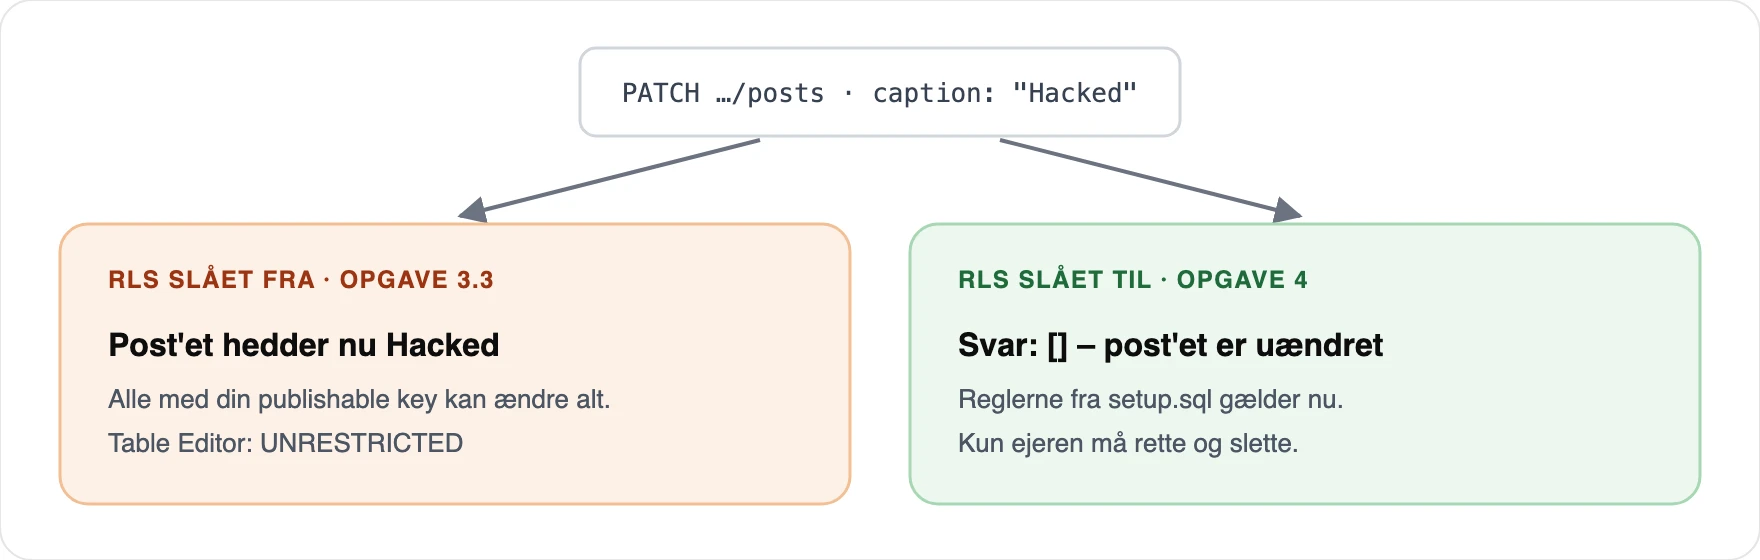
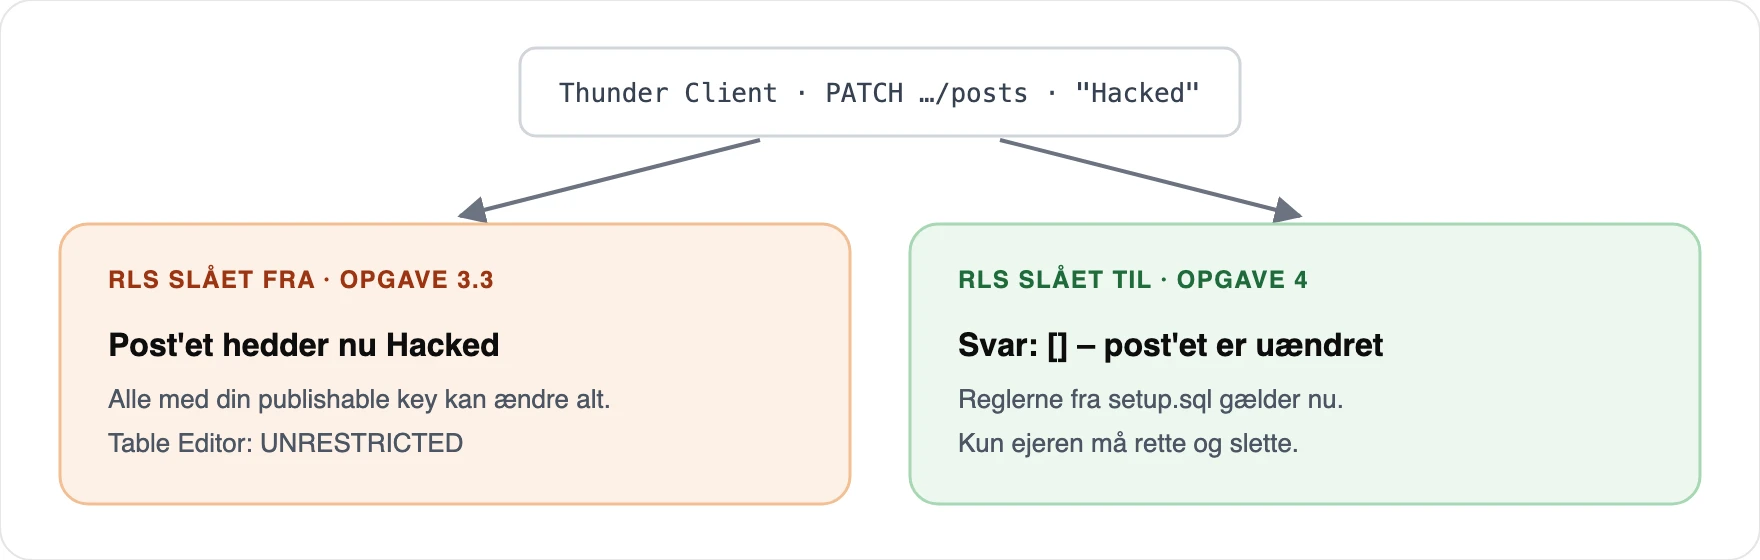
Update documentation and SVG assets to reflect Thunder Client usage in user management examples

Changed region(s): [[0.3125, 0.1214, 0.6875, 0.1821]]

diff --git a/slides/dynamic-user-interface-05/index.html b/slides/dynamic-user-interface-05/index.html
@@ -525,18 +525,16 @@ const isOwner = profile?.id === post.userId;
             <ol class="um-demo-steps">
               <li><b>Log ind som en anden bruger</b><span><em>Edit</em> og <em>Delete</em> er væk på mine posts</span></li>
               <li><b>Tilføj <code>/update</code> til URL'en på mit post</b><span>Siden sender dig tilbage til post'et</span></li>
-              <li class="is-alert"><b>Log ud, og kør koden i <em>Console</em></b><span>Post'et hedder nu <em>Hacked</em>. Din app er ikke den eneste vej til databasen</span></li>
+              <li class="is-alert"><b>Send en <code>PATCH</code> fra Thunder Client</b><span>Post'et hedder nu <em>Hacked</em>. Din app er ikke den eneste vej til databasen</span></li>
             </ol>
             <div class="um-demo-code">
-              <span class="code-label"><em>Console</em> · URL og key fra <code>.env.local</code> · id fra URL'en</span>
-              <pre class="po-code code-sm"><code class="language-js">await fetch(`${URL}/rest/v1/posts?id=eq.${id}`, {
-  method: "PATCH",
-  headers: {
-    apikey: "sb_publishable_…",
-    "Content-Type": "application/json"
-  },
-  body: JSON.stringify({ caption: "Hacked" })
-});</code></pre>
+              <span class="code-label">Thunder Client · URL og key fra <code>.env.local</code> · id fra URL'en</span>
+              <pre class="po-code code-sm"><code class="language-http">PATCH …/rest/v1/posts?id=eq.&lt;post-id&gt;
+
+apikey: sb_publishable_…
+Prefer: return=representation
+
+{ "caption": "Hacked" }</code></pre>
             </div>
           </div>
         </section>
@@ -561,7 +559,7 @@ const isOwner = profile?.id === post.userId;
               <p><b>Reglerne ligger klar</b><code>setup.sql</code> har lavet dem. Du skal ikke skrive dem.</p>
               <p><b>Policy</b>Én regel for én handling — læs, opret, ret eller slet.</p>
               <p><b><em>Enable RLS</em></b>Ét klik pr. tabel. Først nu gælder reglerne.</p>
-              <p><b>For alle requests</b>Fra appen, fra <em>Console</em> — og fra alle med din publishable key.</p>
+              <p><b>For alle requests</b>Fra appen, fra Thunder Client — og fra alle med din publishable key.</p>
             </div>
           </div>
           <p class="po-source-link">
@@ -602,7 +600,7 @@ const isOwner = profile?.id === post.userId;
             <ol class="um-demo-steps">
               <li><b>Find reglerne fra <code>setup.sql</code></b><span>8 policies — men RLS er slået fra</span></li>
               <li><b>Klik på <em>Enable RLS</em> ved <code>posts</code> og <code>users</code></b><span>Appen virker som før. <em>UNRESTRICTED</em> er væk</span></li>
-              <li class="is-safe"><b>Kør koden fra demo 3 igen</b><span>Svaret er <code>[]</code> — post'et er uændret</span></li>
+              <li class="is-safe"><b>Send requesten fra demo 3 igen</b><span>Svaret er <code>[]</code> — post'et er uændret</span></li>
               <li class="is-safe"><b>Fjern tjekket i <code>deletePost</code>, og slet en andens post</b><span>Appen lod mig — databasen sagde nej</span></li>
             </ol>
           </div>
@@ -692,7 +690,7 @@ const isAdmin = profile?.role === "admin";
             </article>
             <article>
               <h3>Test</h3>
-              <p>Som ikke logget ind, som dig selv og som en anden — og med <code>fetch</code> fra <em>Console</em>.</p>
+              <p>Som ikke logget ind, som dig selv og som en anden — og med en request fra Thunder Client.</p>
               <p class="step-links"><a href="#/demo-3">Koden</a><a href="#/demo-4">Demo 4</a></p>
             </article>
           </div>

diff --git a/undervisning/dynamic-user-interface/opgave-2026-11-10-user-management-roller-og-rls.md b/undervisning/dynamic-user-interface/opgave-2026-11-10-user-management-roller-og-rls.md
@@ -187,7 +187,7 @@ export default async function CreatePage({ searchParams }) {
 
 **Resultat:** Kun den, der har lavet et post, ser _Edit_ og _Delete_ og kan rette og slette det.
 
-<img src="https://raw.githubusercontent.com/cederdorff/mdu-e25ixd/main/slides/assets/user-management-tre-lag.webp" alt="Tre lag: Requests fra appen går gennem UI, server og database. En fetch fra Console med den publishable key går uden om appen direkte til databasen. Kun databasen ser alle requests." style="max-width: 100%; margin: 0.75rem 0;">
+<img src="https://raw.githubusercontent.com/cederdorff/mdu-e25ixd/main/slides/assets/user-management-tre-lag.webp" alt="Tre lag: Requests fra appen går gennem UI, server og database. En request fra Thunder Client med den publishable key går uden om appen direkte til databasen. Kun databasen ser alle requests." style="max-width: 100%; margin: 0.75rem 0;">
 
 ### 3.1 Skjul knapperne
 
@@ -247,25 +247,22 @@ Knapperne på detaljesiden:
 
 ### 3.3 Er data nu beskyttet?
 
-Din app er ikke den eneste vej til databasen. Din publishable key er offentlig – den ligger i browseren. Åbn et post, og kopiér id'et fra URL'en. Åbn udviklerværktøjerne, og kør i _Console_ – med din URL og key fra `.env.local`:
+Din app er ikke den eneste vej til databasen. Din publishable key er offentlig – den ligger i browseren, så alle kan finde den. Prøv selv med Thunder Client, ligesom i Post App.
 
-```js
-const response = await fetch("https://<dit-projekt>.supabase.co/rest/v1/posts?id=eq.<post-id>", {
-  method: "PATCH",
-  headers: {
-    apikey: "sb_publishable_...",
-    "Content-Type": "application/json",
-    Prefer: "return=representation"
-  },
-  body: JSON.stringify({ caption: "Hacked" })
-});
+1. Åbn et post i appen, og kopiér id'et fra URL'en.
+2. Lav en ny request i Thunder Client:
+   - **Metode:** `PATCH`
+   - **URL:** `https://<dit-projekt>.supabase.co/rest/v1/posts?id=eq.<post-id>`
+   - **Headers:** `apikey` = din publishable key fra `.env.local` og `Prefer` = `return=representation`
+   - **Body → JSON:**
 
-await response.json();
-```
+     ```json
+     { "caption": "Hacked" }
+     ```
 
-Det er den samme `fetch` som i Post App.
+3. Klik på _Send_.
 
-**Tjek:** Post'et hedder nu _Hacked_ – uden login og uden om alle dine tjek. Gem koden, så du kan køre den igen i opgave 4.
+**Tjek:** Svaret viser post'et, og på forsiden hedder det nu _Hacked_ – uden login og uden om alle dine tjek. Gem requesten, så du kan sende den igen i opgave 4.
 
 **Løsning:** [Kun ejeren](https://github.com/cederdorff/nextjs-supabase-posts/compare/opgave-02-ejer...opgave-03-kun-ejeren) · [branchen `opgave-03-kun-ejeren`](https://github.com/cederdorff/nextjs-supabase-posts/tree/opgave-03-kun-ejeren)
 
@@ -302,9 +299,9 @@ Klik på _Enable RLS_ ved `posts` og ved `users`.
 
 ### 4.3 Prøv igen
 
-<img src="https://raw.githubusercontent.com/cederdorff/mdu-e25ixd/main/slides/assets/user-management-rls.webp" alt="Den samme fetch fra Console. Med RLS slået fra hedder post'et nu Hacked. Med RLS slået til er svaret en tom liste, og post'et er uændret." style="max-width: 100%; margin: 0.75rem 0;">
+<img src="https://raw.githubusercontent.com/cederdorff/mdu-e25ixd/main/slides/assets/user-management-rls.webp" alt="Den samme request fra Thunder Client. Med RLS slået fra hedder post'et nu Hacked. Med RLS slået til er svaret en tom liste, og post'et er uændret." style="max-width: 100%; margin: 0.75rem 0;">
 
-1. **Ikke logget ind:** Kør `fetch`-koden fra 3.3 igen med `"Hacked again"`. Svaret er `[]`, og post'et er uændret. Databasen sagde nej.
+1. **Uden login:** Send requesten fra 3.3 i Thunder Client igen med `"Hacked again"`. Svaret er `[]`, og post'et er uændret. Databasen sagde nej.
 2. **Logget ind:** Fjern midlertidigt `if`'en i `deletePost`, og vis knapperne for alle (`{true && (...)}`). Prøv at slette et post, du ikke ejer. Det er der stadig – appen lod dig, men databasen sagde nej. Sæt koden tilbage bagefter.
 
 **Tjek:** Du kan forklare, hvorfor du både har tjek i appen og regler i databasen.
@@ -312,7 +309,7 @@ Klik på _Enable RLS_ ved `posts` og ved `users`.
 <details>
 <summary><strong>Løsning</strong></summary>
 
-Tjekket i appen giver en god oplevelse: Knapper, du ikke kan bruge, vises ikke. Reglerne i databasen beskytter data: De gælder for alle requests – fra din app, fra _Console_ og fra alle andre med din publishable key. Derfor må den publishable key gerne være offentlig, når RLS er slået til. En `sb_secret_`-key springer RLS over og må aldrig ligge i browseren eller på GitHub.
+Tjekket i appen giver en god oplevelse: Knapper, du ikke kan bruge, vises ikke. Reglerne i databasen beskytter data: De gælder for alle requests – fra din app, fra Thunder Client og fra alle andre med din publishable key. Derfor må den publishable key gerne være offentlig, når RLS er slået til. En `sb_secret_`-key springer RLS over og må aldrig ligge i browseren eller på GitHub.
 
 </details>
 

diff --git a/undervisning/dynamic-user-interface/race-12-2026-11-10-user-management-roller-og-beskyttet-adgang.md b/undervisning/dynamic-user-interface/race-12-2026-11-10-user-management-roller-og-beskyttet-adgang.md
@@ -55,7 +55,7 @@ Bagefter bygger I det ind i jeres eget projekt. Har I brug for at prøve det af 
 <summary><strong>3. Kun ejeren kan rette og slette · demo</strong></summary>
 <ul>
 <li>Skjul ikke bare knapper. Det, brugeren ikke må, skal også afvises på serveren – og i databasen.</li>
-<li>Kun ejeren ser <em>Edit</em> og <em>Delete</em>, og siden og Server Actions tjekker det. Alligevel kan alle rette et post direkte med den publishable key fra <em>Console</em> – uden om alle tjek.</li>
+<li>Kun ejeren ser <em>Edit</em> og <em>Delete</em>, og siden og Server Actions tjekker det. Alligevel kan alle rette et post direkte med den publishable key fra Thunder Client – uden om alle tjek.</li>
 <li>Row Level Security: Reglerne (policies) ligger klar fra <code>setup.sql</code> – fx "kun ejeren må slette". Du slår dem til med ét klik: <em>Enable RLS</em>.</li>
 <li>Derfor må den publishable key ligge i frontend, når RLS beskytter data – og derfor må en secret key aldrig.</li>
 </ul>
